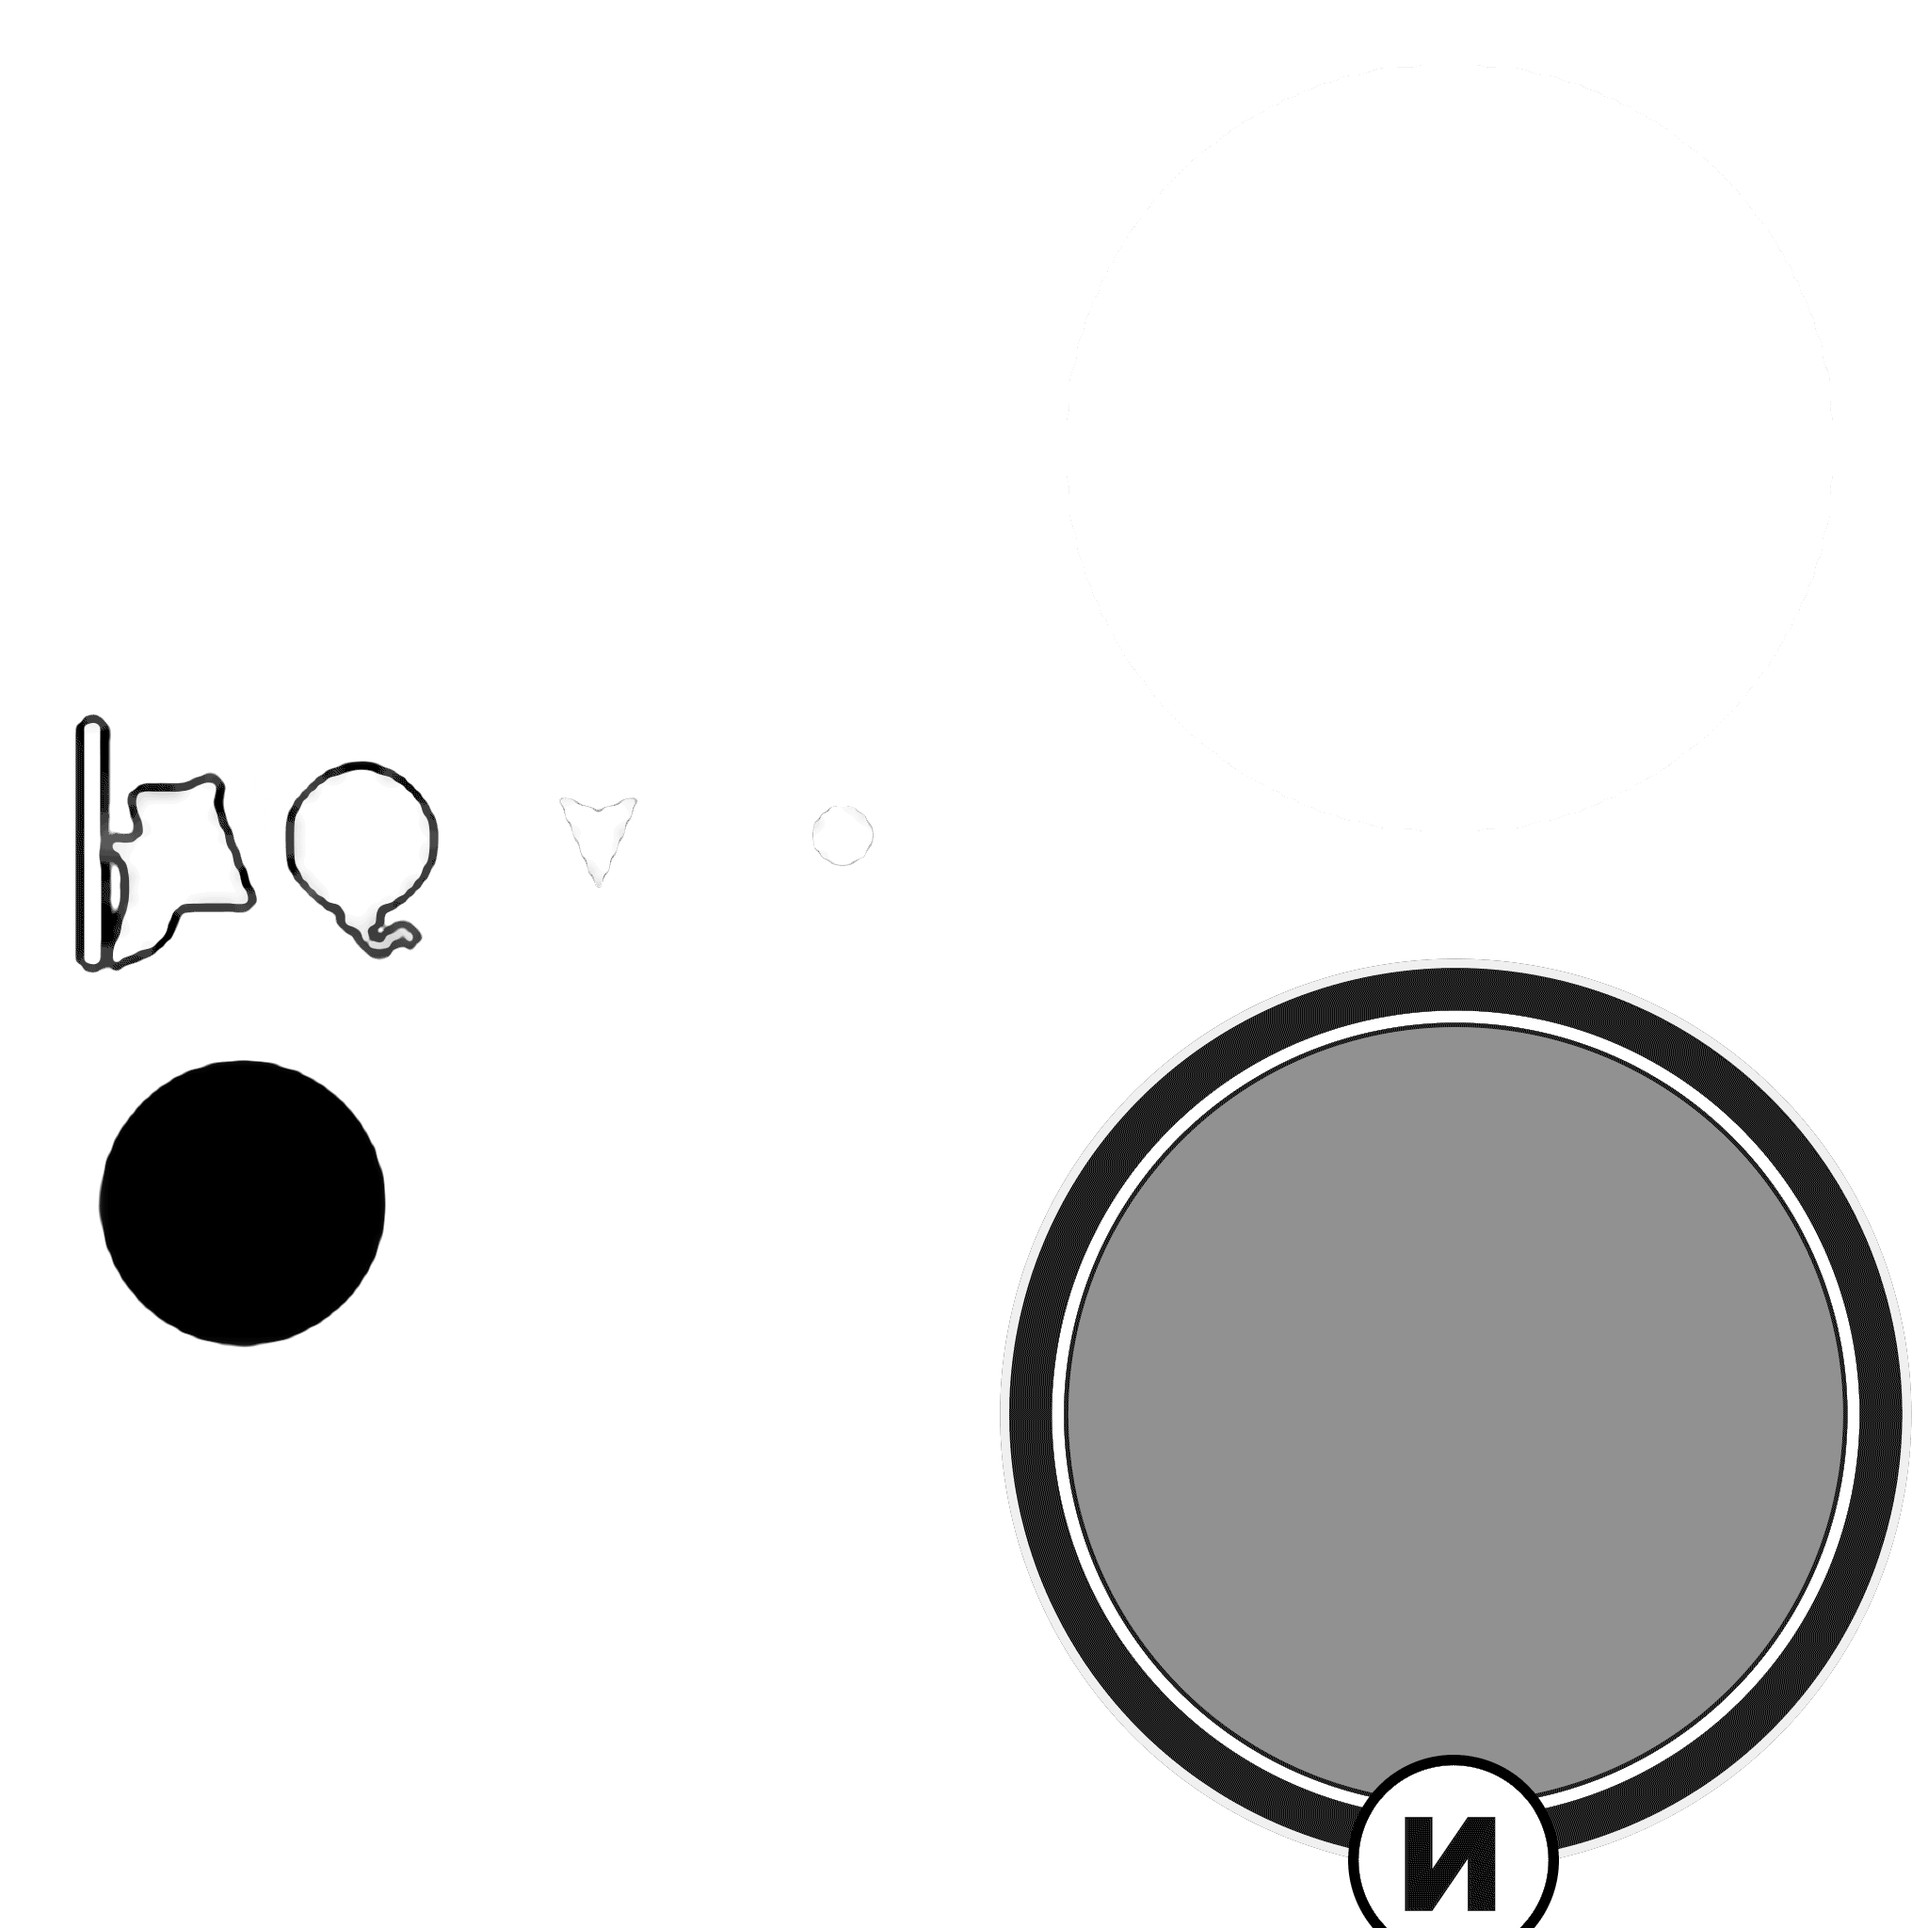
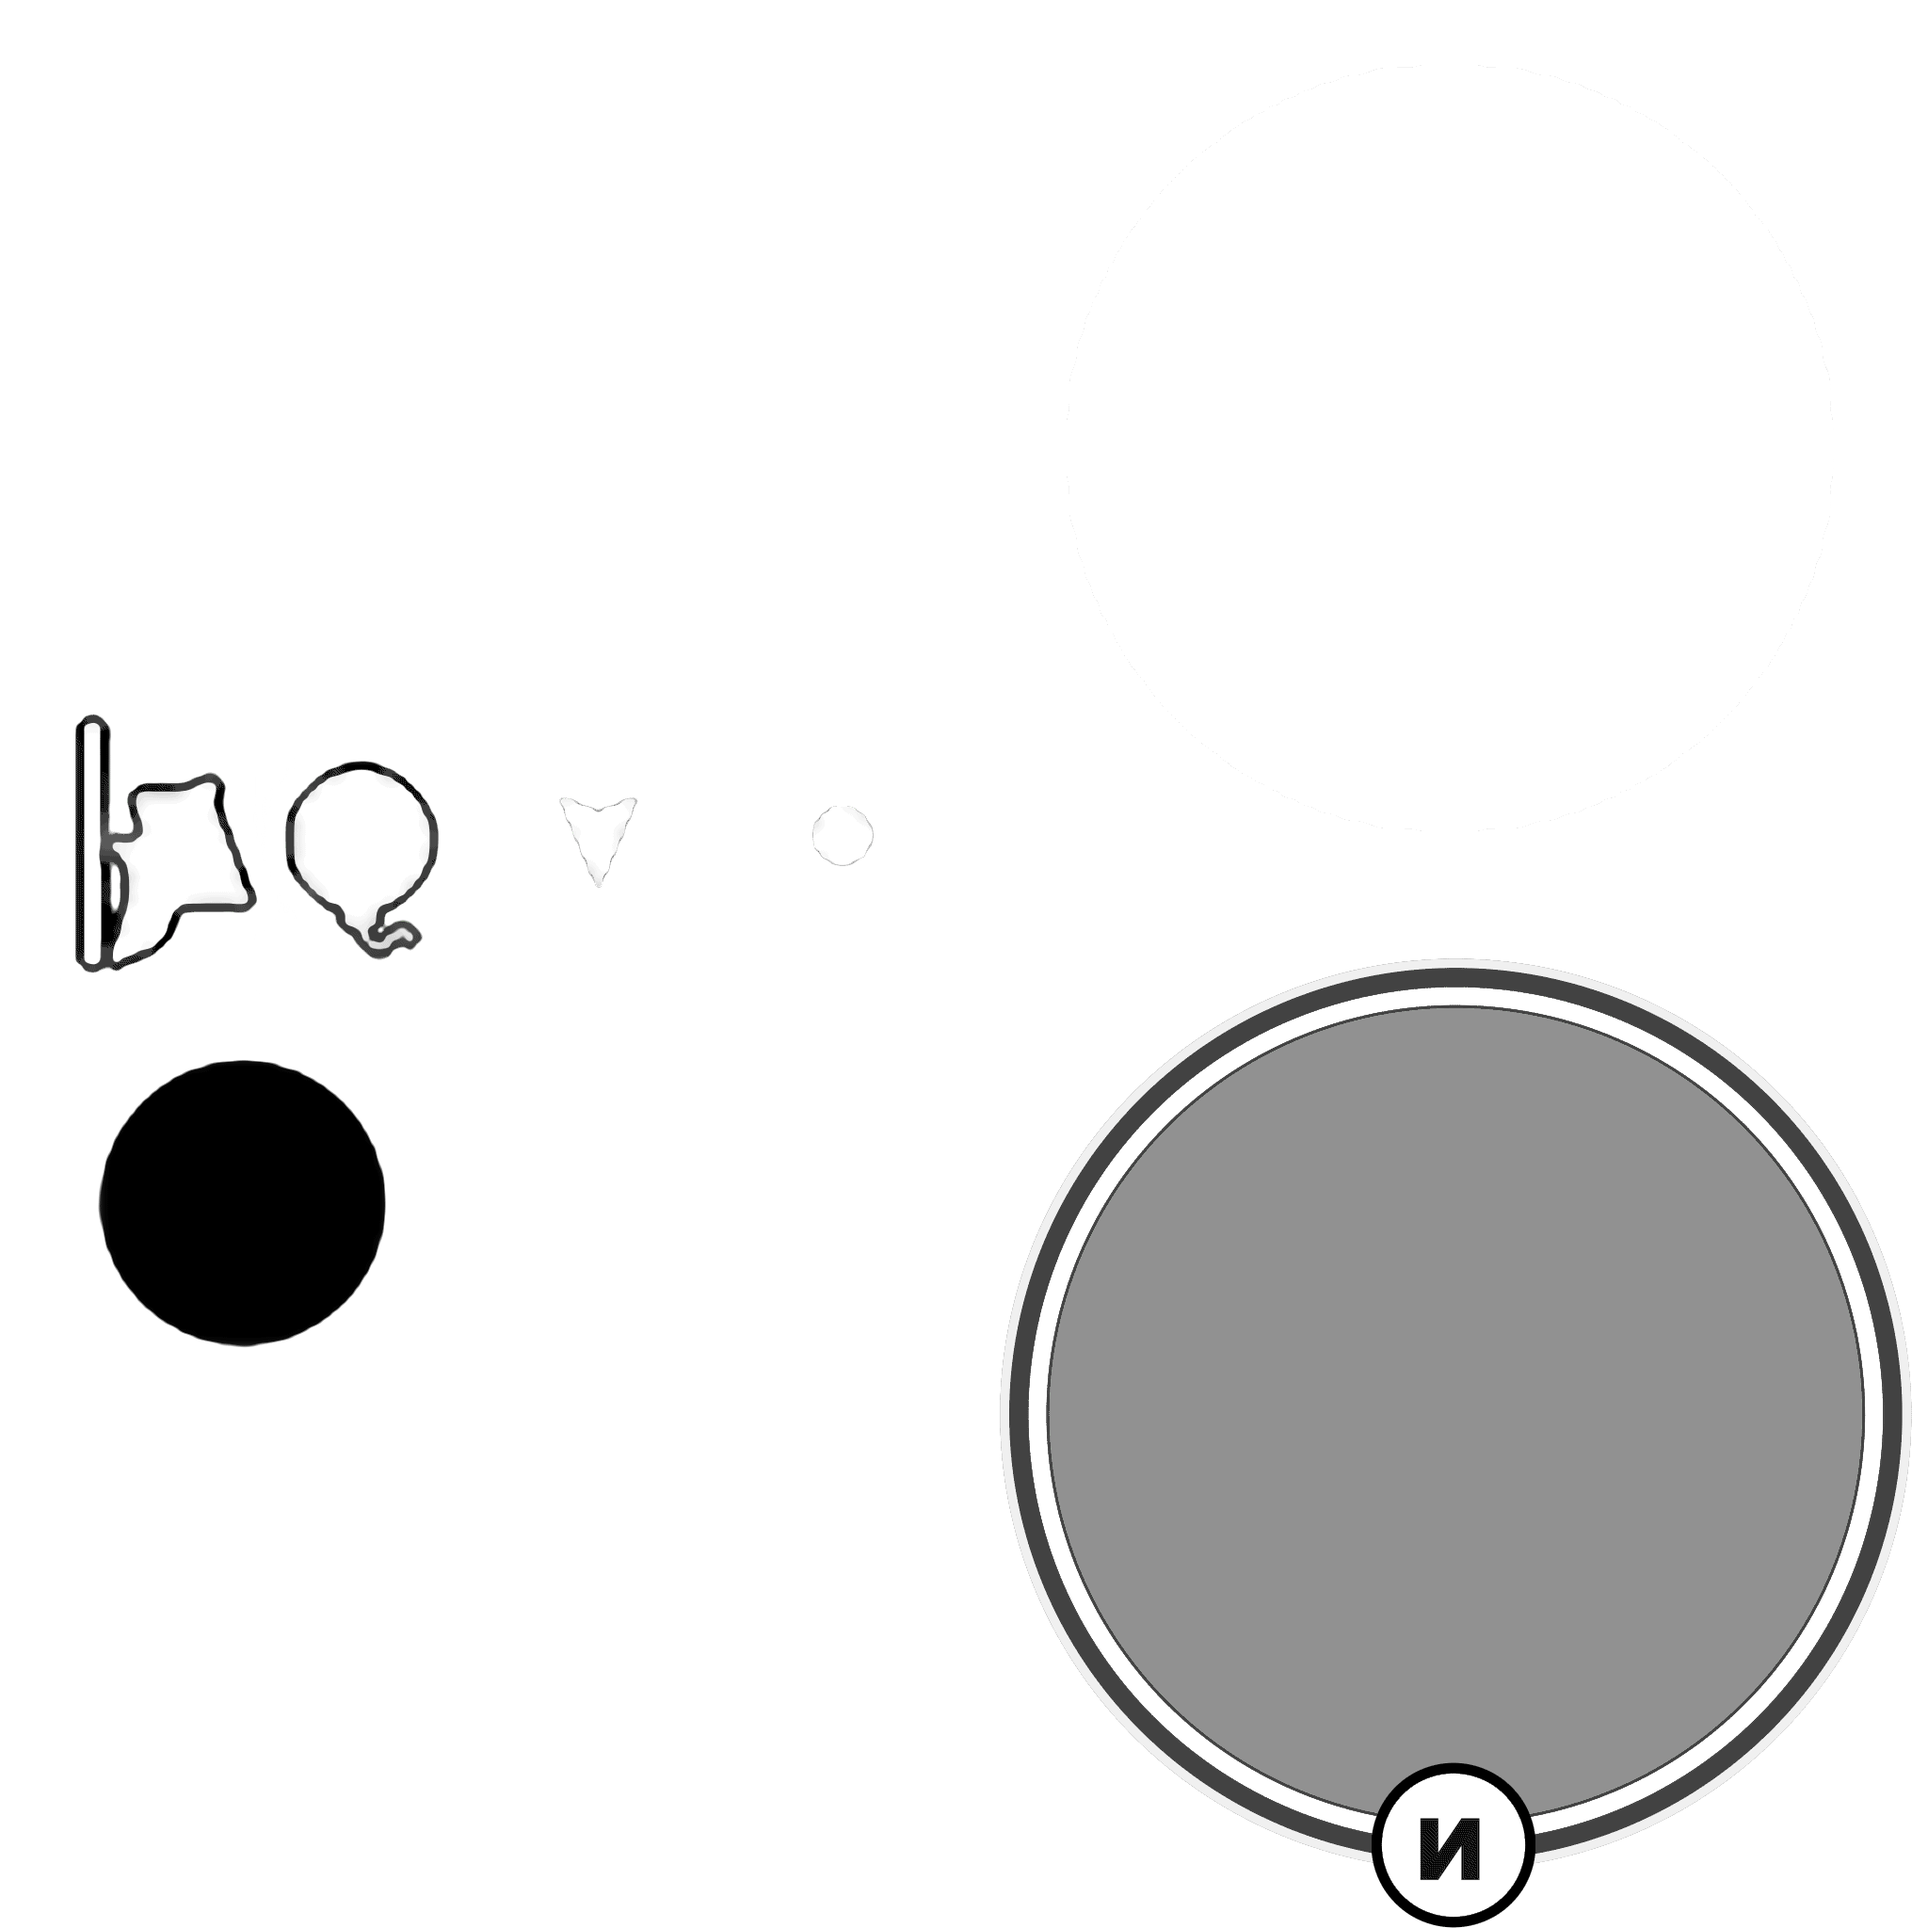
0.4.2 · HUD: The radar's band thinner and lighter with a clear line, the N smaller inside its tab; the special ability's charge a bar of its own over the radar again, in the meters' style; the log names the pieces by its track

Changed region(s): [[0.5, 0.5, 1.0, 1.0]]

diff --git a/src/pc/hud.cpp b/src/pc/hud.cpp
@@ -8,6 +8,7 @@
 #include <cstddef>
 #include <cstdio>
 #include <set>
+#include <tuple>
 #include <vector>
 
 #include "imgui.h"
@@ -308,6 +309,21 @@ bool hud_take_quad(const HudQuad& q) {
             }
             return false;
         }
+        // DEBUG: the pieces near the special ability's track that are not its track or fill (its stored charges?),
+        // each kind once: texture, box, colour, uv.
+        if (hide && g_special.presents_since < 30 && left < g_special.right + 60 && right > g_special.left - 60 &&
+            top < g_special.bottom + 60 && bottom > g_special.top - 60 &&
+            !(std::fabs(left - g_special.left) < 1 && std::fabs(right - g_special.right) < 1)) {
+            static std::set<std::tuple<uint32_t, int, int, int>> seen;
+            const auto key = std::make_tuple(q.texture, static_cast<int>(width), static_cast<int>(height),
+                                             static_cast<int>(q.colour[3] * 10));
+            if (seen.size() < 60 && seen.insert(key).second) {
+                log_line("hud: DEBUG near the special track: texture %08X%s %.0fx%.0f at %.0f,%.0f, colour %.2f %.2f %.2f %.2f, "
+                         "uv %.3f,%.3f-%.3f,%.3f (track %.0f..%.0f x %.0f..%.0f)", q.texture, q.program ? " program" : "",
+                         width, height, left, top, q.colour[0], q.colour[1], q.colour[2], q.colour[3], u0, v0, u1, v1,
+                         g_special.left, g_special.right, g_special.top, g_special.bottom);
+            }
+        }
         if (!hide || !q.program || !aligned || !g_gauge_texture || q.texture != g_gauge_texture || width < 20 ||
             g_players.size() != 1) {
             return false;
@@ -559,24 +575,43 @@ void hud_draw(ImDrawList* list, const HudFonts& fonts) {
         radar_c = ImVec2(pic.window_left + (g_radar.x * narrow - pic.surface_left) * scale_x,
                          pic.window_top + (g_radar.y - pic.surface_top) * scale_y);
         radar_r = half * scale_y;
-        if (g_special.presents_since < 30) {
-            const float r = radar_r + 0.09f * radar_r, width = 0.06f * radar_r;
-            arc(list, radar_c, r, 198.5f, 341.5f, colour(11, 11, 13, 0.85f), width + 0.03f * radar_r);
-            arc(list, radar_c, r, 200, 340, colour(255, 255, 255, 0.16f), width);
-            if (g_special.charge > 0) arc(list, radar_c, r, 200, 200 + 140 * g_special.charge, accent, width);
-            // its mark above the arc's top end, outside the radar: below it, it was taken for one of the map's icons
-            const ImVec2 m = polar(radar_c, r + 0.2f * radar_r, 343);
-            const float mr = 0.11f * radar_r;
-            list->AddCircleFilled(ImVec2(m.x, m.y + 0.02f * radar_r), mr + 0.01f * radar_r, colour(0, 0, 0, 0.45f), 32);
-            list->AddCircleFilled(m, mr, g_special.charge > 0.98f ? accent : colour(43, 44, 49), 32);
-            list->AddCircle(m, mr, accent, 32, 0.02f * radar_r);
-            centred_text(list, fonts.numbers, 0.12f * radar_r, m,
-                         g_special.charge > 0.98f ? colour(17, 17, 17) : colour(244, 244, 244), "SP");
-            static ULONGLONG logged_at = 0;  // DEBUG: is the charge read?
-            if (GetTickCount64() - logged_at > 10000) {
-                logged_at = GetTickCount64();
-                log_line("hud: DEBUG special ability charge %.2f", g_special.charge);
-            }
+    }
+    if (g_special.presents_since < 30 && radar_r > 0) {
+        // The special ability's charge, a bar of its own (asked for 28 Nov 2026): the game's curve over the radar, from
+        // its foot by the radar up to the top of its track, drawn again where it is (narrowed towards the left edge as
+        // the radar is) in the meters' style: a dark band, the empty track, the charge in the HUD's colour, SP at its
+        // top. Its thickness follows the radar's size.
+        const float box_width = g_special.right - g_special.left, box_height = g_special.bottom - g_special.top;
+        const ImVec2 from(0.78f, 0), control(-0.31f, 0.55f), to(0.12f, 1);  // the game's curve, in its track's box
+        constexpr int kSteps = 48;
+        ImVec2 points[kSteps + 1];
+        int charged_from = kSteps + 1;
+        for (int i = 0; i <= kSteps; ++i) {
+            const float t = static_cast<float>(i) / kSteps, u = 1 - t;
+            const float x = u * u * from.x + 2 * u * t * control.x + t * t * to.x;
+            const float y = u * u * from.y + 2 * u * t * control.y + t * t * to.y;
+            if (charged_from > kSteps && y >= 1 - g_special.charge) charged_from = i;
+            const float surface_x = (g_special.left + x * box_width) * narrow;
+            points[i] = ImVec2(pic.window_left + (surface_x - pic.surface_left) * scale_x,
+                               pic.window_top + (g_special.top + y * box_height - pic.surface_top) * scale_y);
+        }
+        const float width = 0.075f * radar_r;
+        list->AddPolyline(points, kSteps + 1, colour(11, 11, 13, 0.85f), ImDrawFlags_None, width + 0.04f * radar_r);
+        list->AddPolyline(points, kSteps + 1, colour(255, 255, 255, 0.28f), ImDrawFlags_None, width);
+        if (g_special.charge > 0 && charged_from < kSteps) {
+            list->AddPolyline(points + charged_from, kSteps + 1 - charged_from, accent, ImDrawFlags_None, width);
+        }
+        const ImVec2 m(points[0].x, points[0].y - 0.13f * radar_r);  // SP above the top of the bar
+        const float mr = 0.11f * radar_r;
+        list->AddCircleFilled(ImVec2(m.x, m.y + 0.02f * radar_r), mr + 0.01f * radar_r, colour(0, 0, 0, 0.45f), 32);
+        list->AddCircleFilled(m, mr, g_special.charge > 0.98f ? accent : colour(43, 44, 49), 32);
+        list->AddCircle(m, mr, accent, 32, 0.02f * radar_r);
+        centred_text(list, fonts.numbers, 0.12f * radar_r, m,
+                     g_special.charge > 0.98f ? colour(17, 17, 17) : colour(244, 244, 244), "SP");
+        static ULONGLONG logged_at = 0;  // DEBUG: is the charge read?
+        if (GetTickCount64() - logged_at > 10000) {
+            logged_at = GetTickCount64();
+            log_line("hud: DEBUG special ability charge %.2f", g_special.charge);
         }
     }
     for (const Player& p : g_players) {
